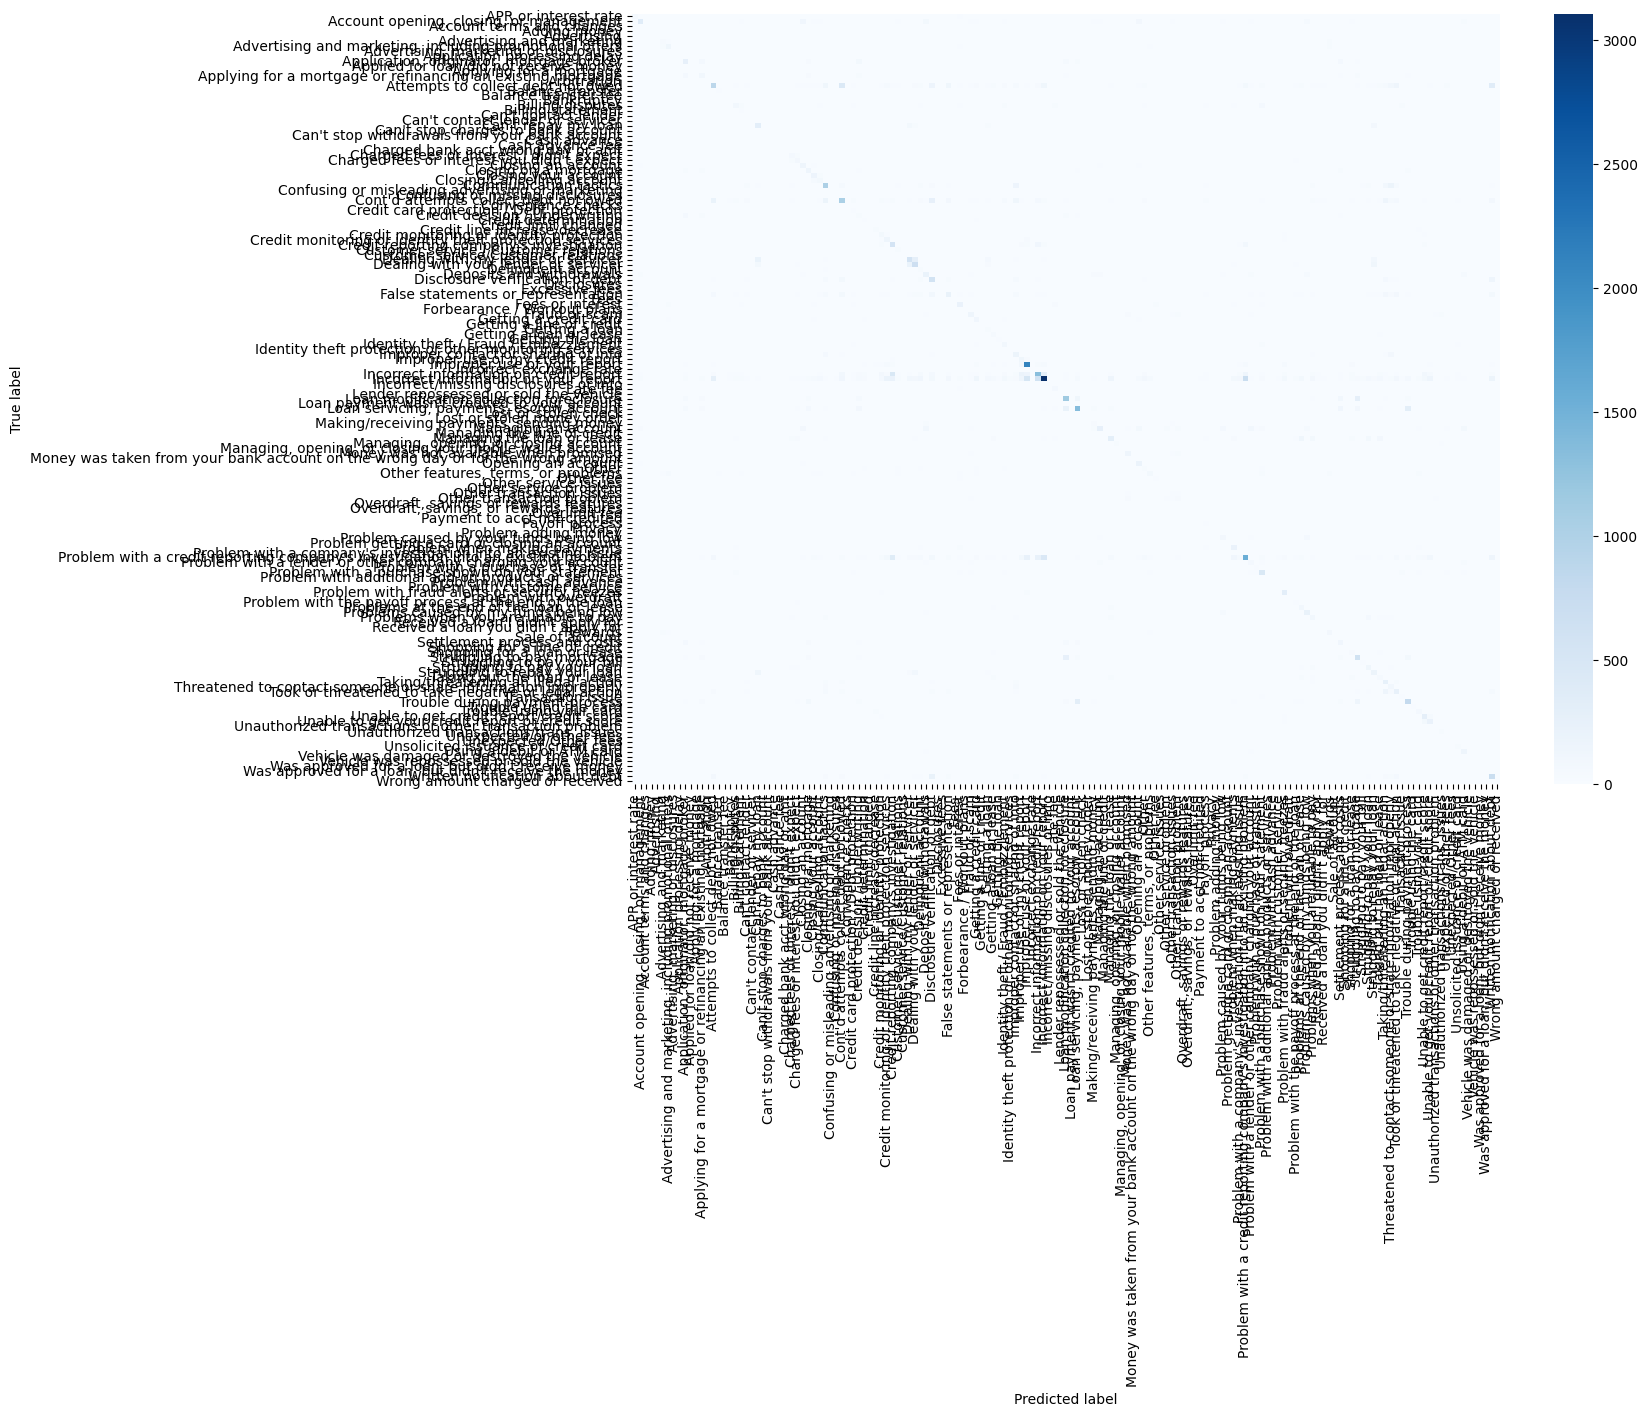
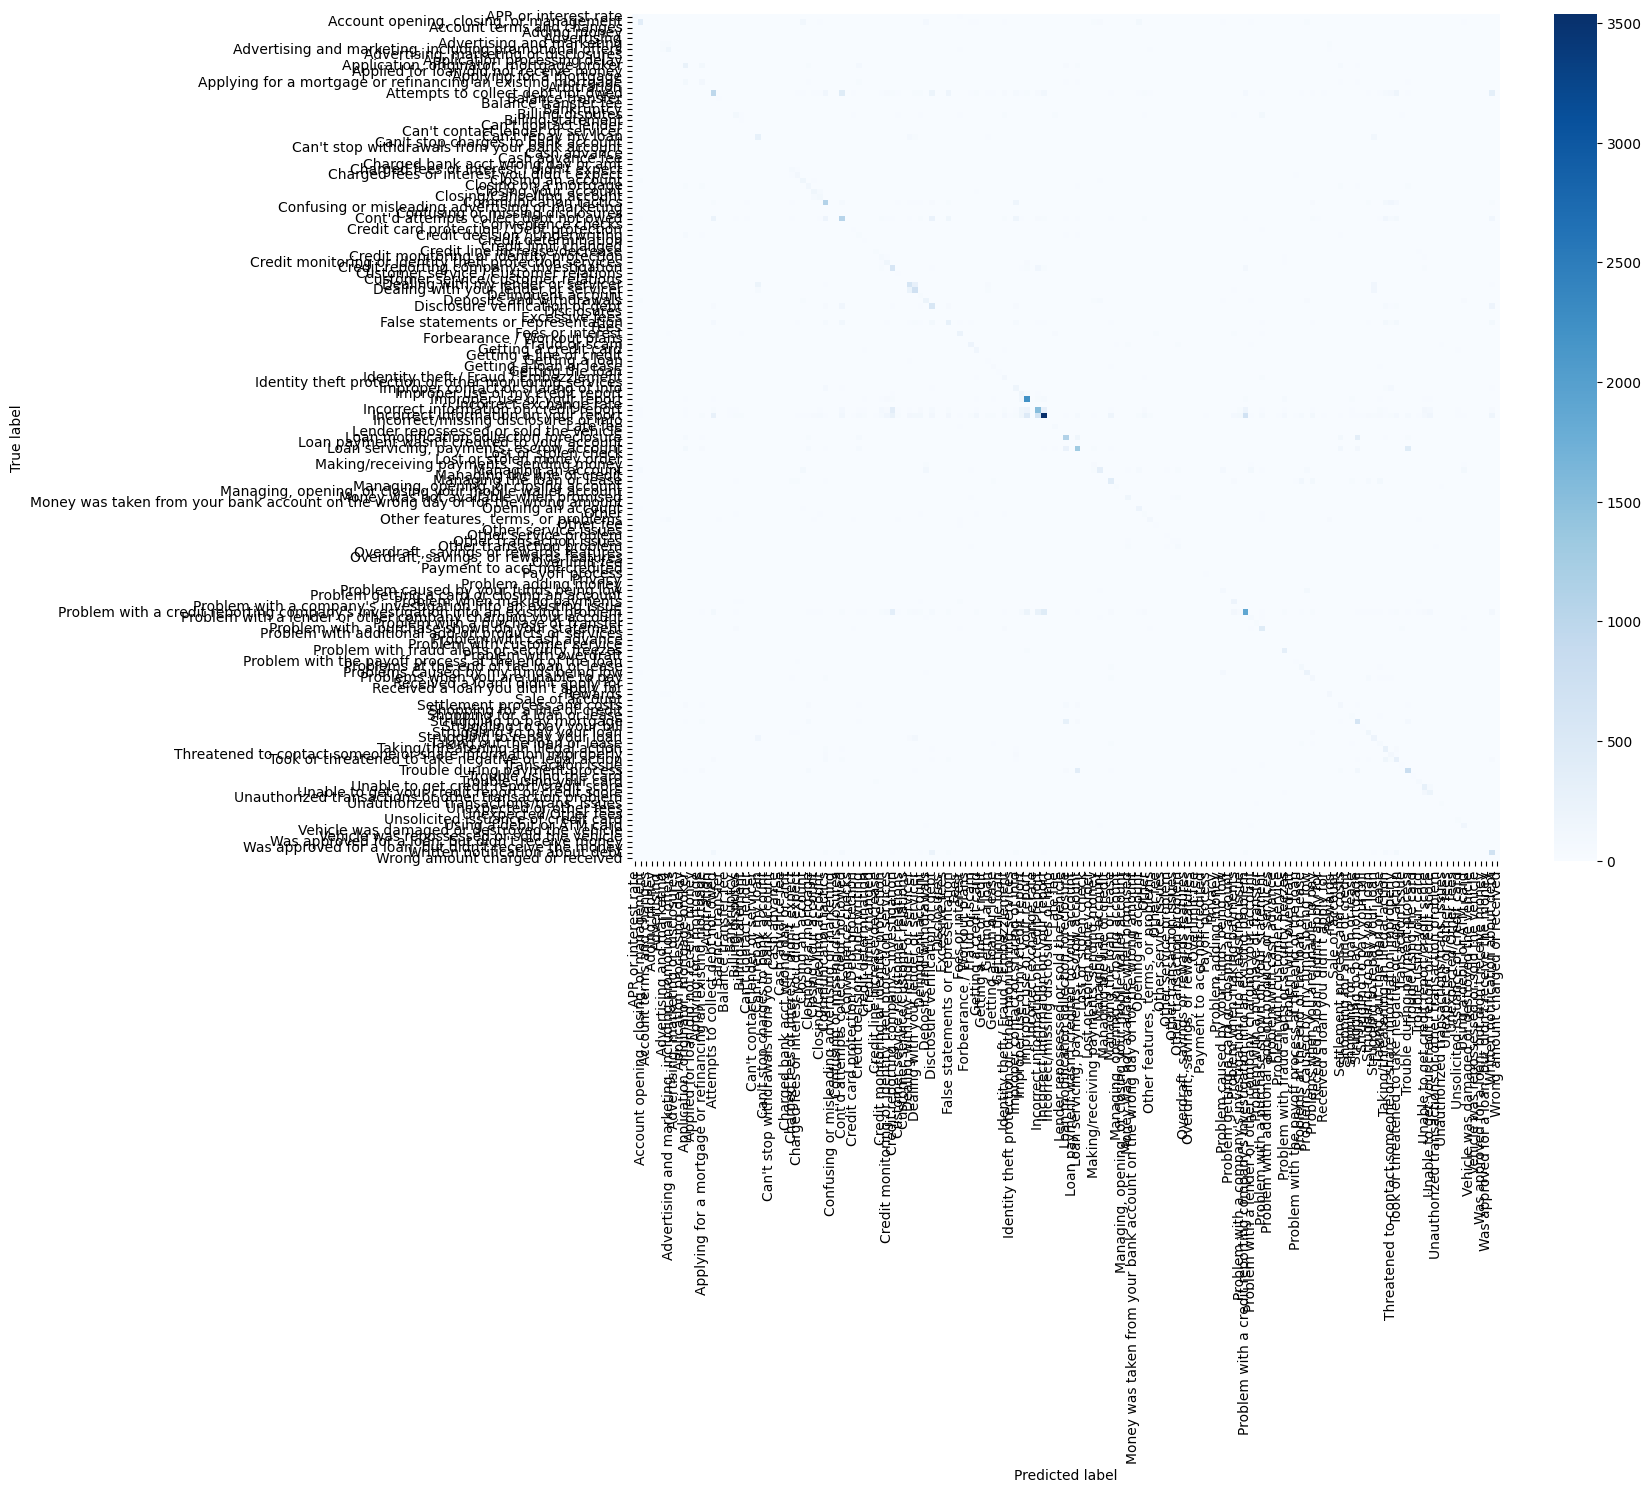
better preprocessing added

diff --git a/src/preprocessing.py b/src/preprocessing.py
@@ -7,8 +7,21 @@ from sklearn.model_selection import train_test_split
 
 def clean_text(text: str) -> str:
     text = text.lower()
+
+    # Remove URLs
+    text = re.sub(r"http\S+|www\S+|https\S+", " ", text)
+
+    # Remove numbers (optional)
+    text = re.sub(r"\d+", " ", text)
+
+    # Remove punctuation
+    text = re.sub(r"[^\w\s]", " ", text)
+
+    # Remove repeated whitespace
     text = re.sub(r"\s+", " ", text)
+
     return text.strip()
+
 
 
 def load_and_prepare_data(path: str):

diff --git a/src/train_intent_model.py b/src/train_intent_model.py
@@ -36,10 +36,13 @@ def setup_mlflow():
 def build_pipeline():
     return Pipeline([
         ("tfidf", TfidfVectorizer(
-            max_features=5000,
-            ngram_range=(1, 2)
+            max_features=15000,
+            min_df=3,
+            max_df=0.95,
+            ngram_range=(1, 2),
+            stop_words="english"
         )),
-        ("clf", LinearSVC(class_weight='balanced'))
+        ("clf", LinearSVC(class_weight='balanced',C=1.0))
     ])
 
 
